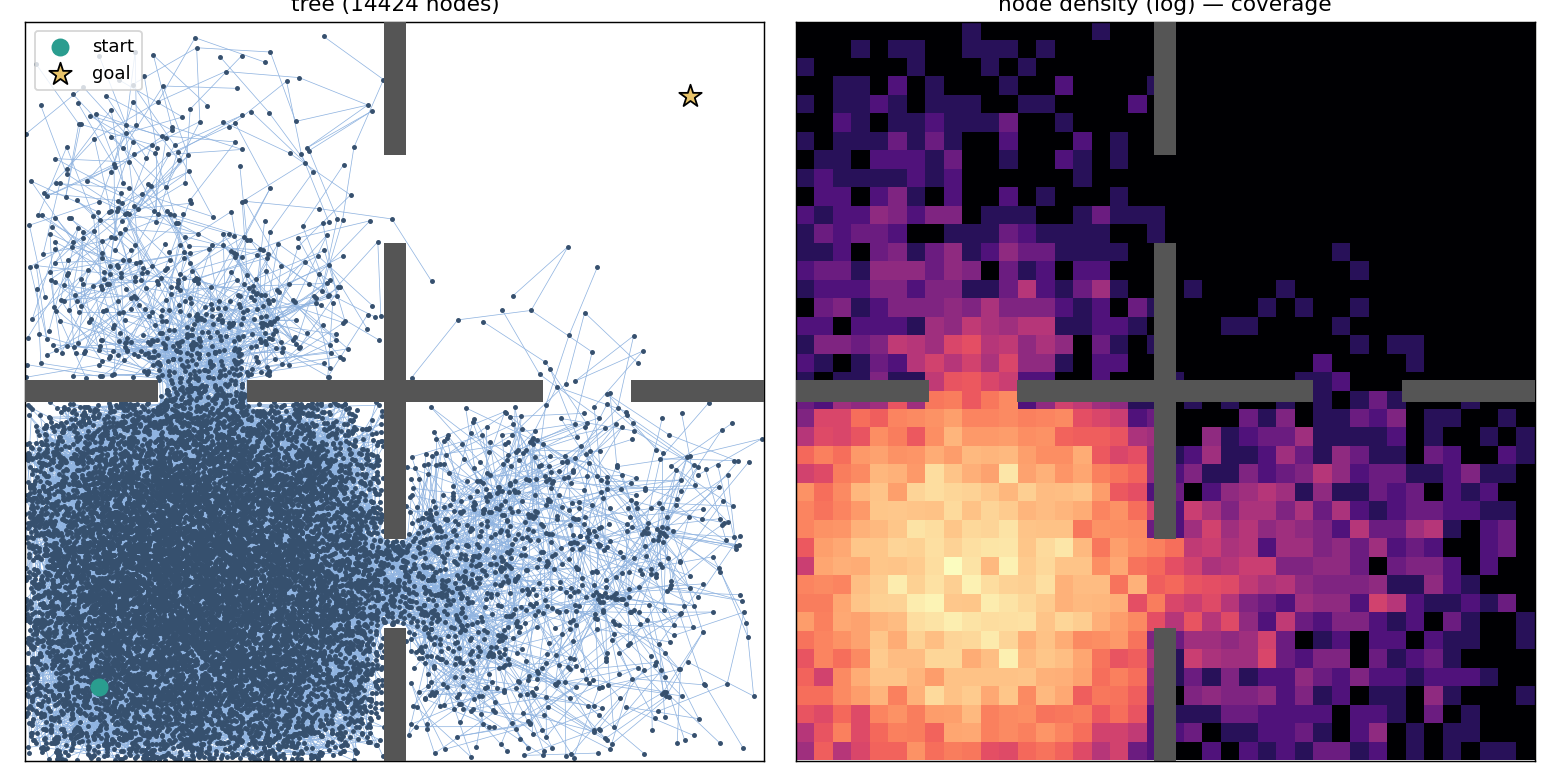
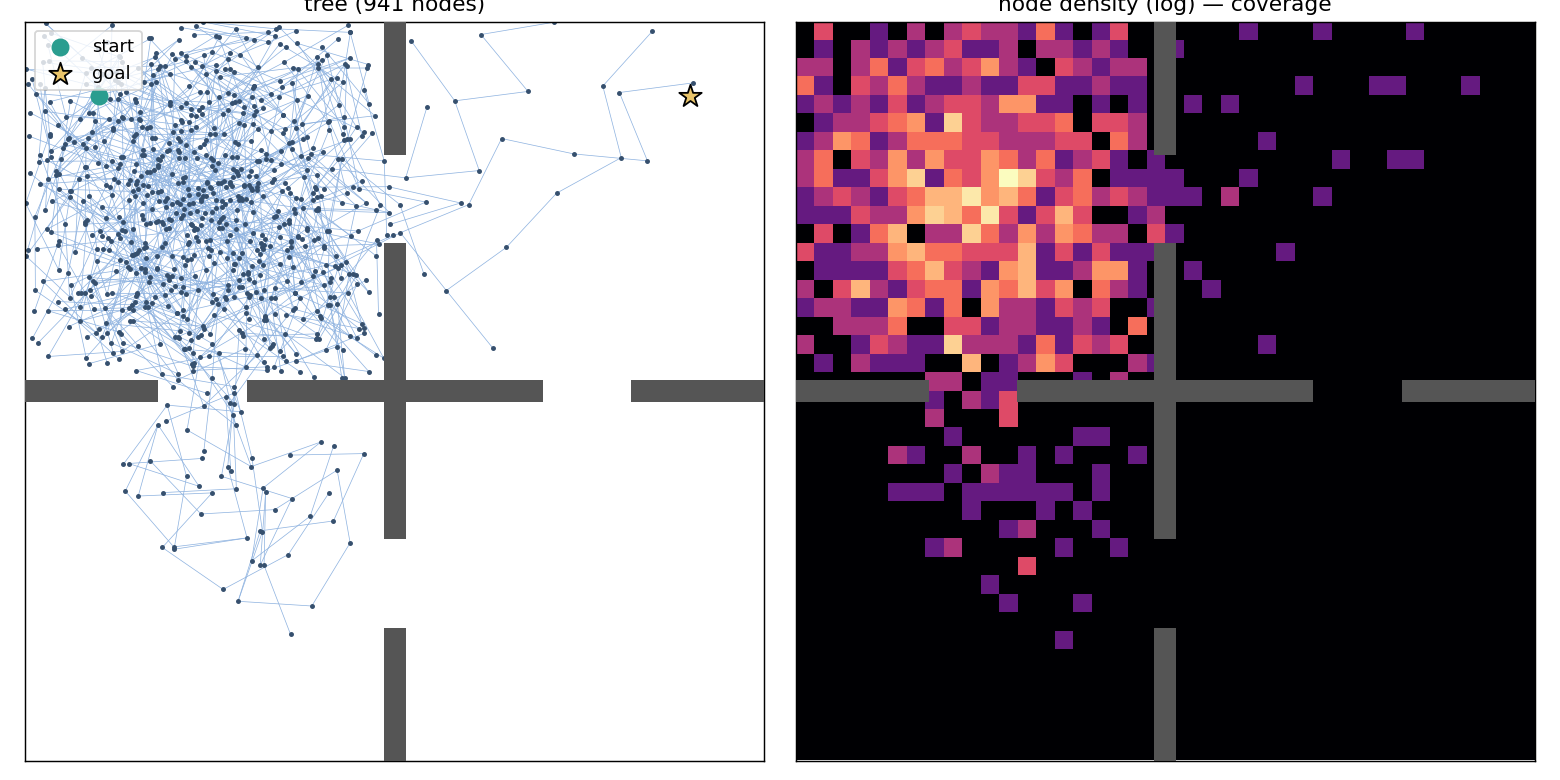
explore_count_nodes: modified step size from 0.03 to 0.10; changed seed to None

diff --git a/explore/v1_count_nodes/explore_count_nodes.py b/explore/v1_count_nodes/explore_count_nodes.py
@@ -31,9 +31,9 @@ class Node:
 
 
 class CountExplorer:
-    def __init__(self, maze, start, goal, eps=0.1, k_seed=15, j_rollout=6,
+    def __init__(self, maze, start, goal, eps=0.10, k_seed=15, j_rollout=6,
                  m_iters=4000, goal_radius=0.04, d_theta_deg=35, max_tries=16,
-                 node_cap=30000, seed=0):
+                 node_cap=3000, seed=None):
         self.maze = maze
         self.start = np.asarray(start, float)
         self.goal = np.asarray(goal, float)
@@ -146,7 +146,7 @@ class CountExplorer:
 # --------------------------------------------------------------------------- #
 if __name__ == "__main__":
     maze = FourRoomMaze(0.03)
-    ex = CountExplorer(maze, start=(0.10, 0.10), goal=(0.90, 0.90))
+    ex = CountExplorer(maze, start=(0.10, 0.90), goal=(0.90, 0.90))
     ex.run()
 
     counts = np.array([n.counter for n in ex.nodes])